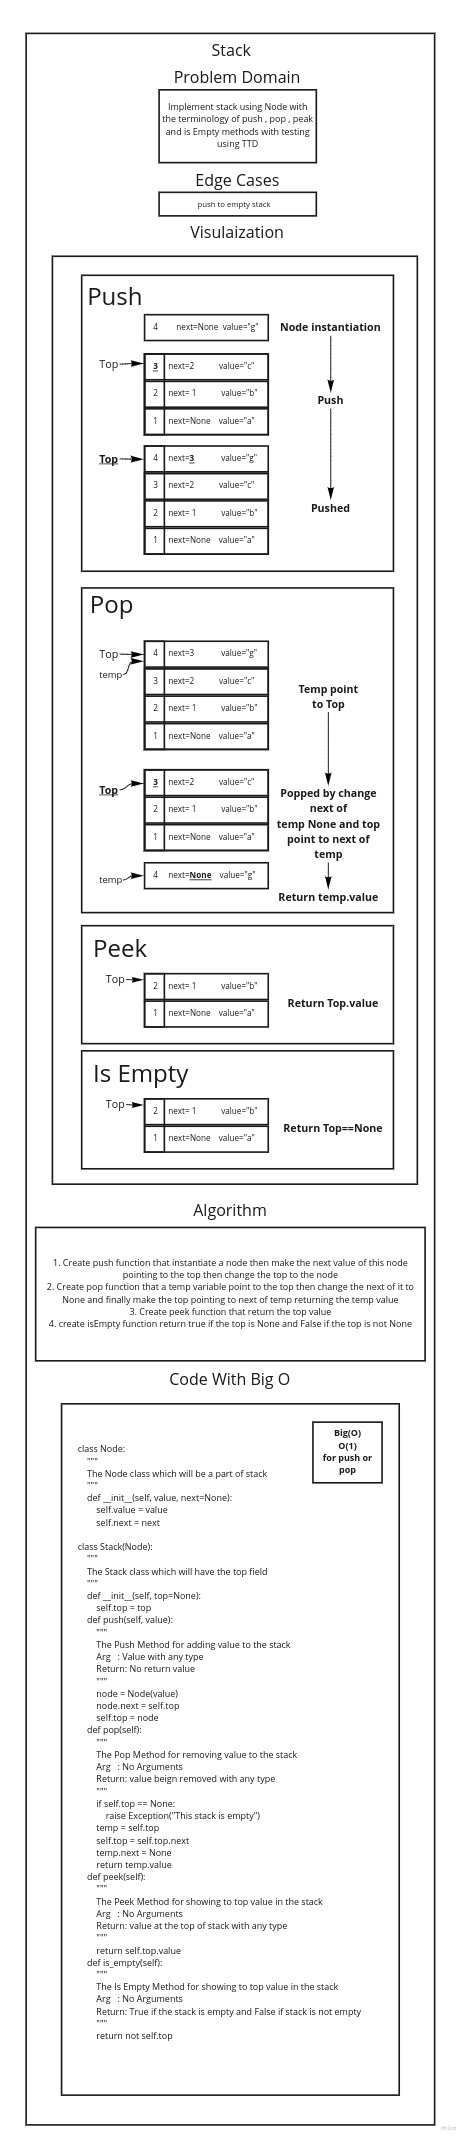
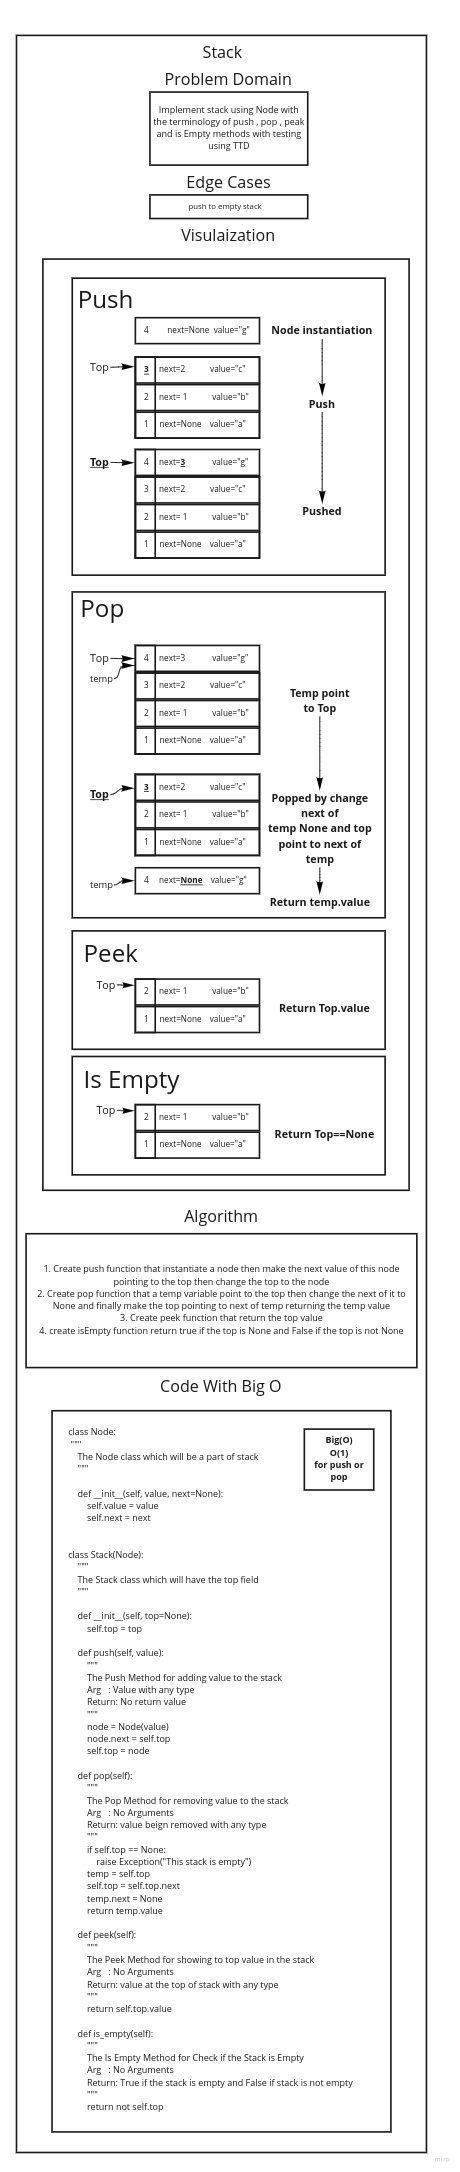
build : Queue Implementation done with tests

Changed region(s): [[0.0304, 0.0, 0.9435, 1.0], [0.213, 0.185, 0.2435, 0.2158]]

diff --git a/python/stack_and_queue/stack_and_queue.py b/python/stack_and_queue/stack_and_queue.py
@@ -2,16 +2,20 @@ class Node:
     """
     The Node class which will be a part of stack
     """
+
     def __init__(self, value, next=None):
         self.value = value
         self.next = next
+
 
 class Stack(Node):
     """
     The Stack class which will have the top field
     """
+
     def __init__(self, top=None):
         self.top = top
+
     def push(self, value):
         """
         The Push Method for adding value to the stack
@@ -21,6 +25,7 @@ class Stack(Node):
         node = Node(value)
         node.next = self.top
         self.top = node
+
     def pop(self):
         """
         The Pop Method for removing value to the stack
@@ -33,6 +38,7 @@ class Stack(Node):
         self.top = self.top.next
         temp.next = None
         return temp.value
+
     def peek(self):
         """
         The Peek Method for showing to top value in the stack
@@ -40,10 +46,60 @@ class Stack(Node):
         Return: value at the top of stack with any type
         """
         return self.top.value
+
     def is_empty(self):
         """
-        The Is Empty Method for showing to top value in the stack
+        The Is Empty Method for Check if the Stack is Empty
         Arg   : No Arguments
         Return: True if the stack is empty and False if stack is not empty
         """
         return not self.top
+
+
+class Queue(Node):
+    def __init__(self):
+        self.front = None
+        self.rear = None
+
+    def enqueue(self, value):
+        """
+        The Enqueue Method for adding value to the rear of Queue
+        Arg   : Value with any type
+        Return: No return value
+        """
+        node = Node(value)
+        if not self.rear:
+            self.front = node
+            self.rear = node
+        else:
+            self.rear.next = node
+            self.rear = node
+
+    def dequeue(self):
+        """
+        The Pop Method for removing value from front of the Queue
+        Arg   : No Arguments
+        Return: value beign removed with any type
+        """
+        if self.front == None:
+            raise Exception("This stack is empty")
+        temp = self.front
+        self.front = self.front.next
+        temp.next = None
+        return temp.value
+
+    def peek(self):
+        """
+        The Peek Method for showing to front value in the Queue
+        Arg   : No Arguments
+        Return: value at the front of Queue with any type
+        """
+        return self.front.value
+
+    def is_empty(self):
+        """
+        The Is Empty Method for Check if the Queue is Empty
+        Arg   : No Arguments
+        Return: True if the Queue is empty and False if Queue is not empty
+        """
+        return not self.front

diff --git a/python/tests/test_stack_and_queue.py b/python/tests/test_stack_and_queue.py
@@ -1,6 +1,8 @@
 import pytest
-from stack_and_queue.stack_and_queue import Stack
+
 from stack_and_queue.stack_and_queue import Node
+from stack_and_queue.stack_and_queue import Stack
+from stack_and_queue.stack_and_queue import Queue
 import sys
 sys.path.append(
     '/media/jehadabuawwad/EA20F40B20F3DC8F/data-structures-and-algorithms/python')
@@ -16,6 +18,8 @@ def test_stack_pop(stack):
     actual = stack.pop()
     excepted = 'g'
     assert actual == excepted
+
+
 def test_stack_multiple_pop():
     node = Stack()
     node.push('a')
@@ -30,24 +34,80 @@ def test_stack_multiple_pop():
     excepted = None
     assert actual == excepted
 
+
 def test_stack_peek(stack):
     actual = stack.top.value
     expected = 'g'
     assert actual == expected
+
 
 def test_stack_peek_next(stack):
     actual = stack.top.next.value
     expected = 'c'
     assert actual == expected
 
+
 def test_stack_instantiate_empty():
-    node=Stack()
+    node = Stack()
     actual = node.top
     excepted = None
     assert actual == excepted
 
+
 def test_stack_is_empty(stack):
     actual = stack.is_empty()
+    excepted = False
+    assert actual == excepted
+
+
+def test_Queue_enqueue(enqueue):
+    actual = enqueue.rear.value
+    expected = 'g'
+    assert actual == expected
+
+
+def test_Queue_dequeue(enqueue):
+    actual = enqueue.dequeue()
+    excepted = 'a'
+    assert actual == excepted
+
+
+def test_Queue_multiple_dequeue():
+    node = Queue()
+    node.enqueue('a')
+    node.enqueue('b')
+    node.enqueue('c')
+    node.enqueue('g')
+    node.dequeue()
+    node.dequeue()
+    node.dequeue()
+    node.dequeue()
+    actual = node.front
+    excepted = None
+    assert actual == excepted
+
+
+def test_Queue_peek(enqueue):
+    actual = enqueue.front.value
+    expected = 'a'
+    assert actual == expected
+
+
+def test_Queue_peek_next(enqueue):
+    actual = enqueue.front.next.value
+    expected = 'b'
+    assert actual == expected
+
+
+def test_Queue_instantiate_empty():
+    node = Queue()
+    actual = node.front
+    excepted = None
+    assert actual == excepted
+
+
+def test_Queue_is_empty(enqueue):
+    actual = enqueue.is_empty()
     excepted = False
     assert actual == excepted
 
@@ -59,4 +119,14 @@ def stack():
     node.push('b')
     node.push('c')
     node.push('g')
+    return node
+
+
+@pytest.fixture
+def enqueue():
+    node = Queue()
+    node.enqueue('a')
+    node.enqueue('b')
+    node.enqueue('c')
+    node.enqueue('g')
     return node

diff --git a/python/stack_and_queue/README.md b/python/stack_and_queue/README.md
@@ -35,9 +35,32 @@ Implementation of Stacks and Queues
         - Arguments: none
         - Returns: Boolean indicating whether or not the stack is empty.
 
+### Queue
+
+* [x] Create a Queue class that has a front property. It creates an empty Queue when instantiated.
+    - [x] This object should be aware of a default empty value assigned to front when the queue is created.
+* [x] The class should contain the following methods:
+    - [x] enqueue
+        - Arguments: value
+        - adds a new node with that value to the back of the queue with an O(1) Time performance.
+
+    - [x]dequeue
+        - Arguments: none
+        - Returns: the value from node from the front of the queue
+        - Removes the node from the front of the queue
+        - Should raise exception when called on empty queue
+    - [x] peek
+        - Arguments: none
+        - Returns: Value of the node located at the front of the queue
+        - Should raise exception when called on empty stack
+    - [x] is empty
+        - Arguments: none
+        - Returns: Boolean indicating whether or not the queue is empty
+
 ## Test Requirements
 
-* Stack
+### Stack
+
     - [x] Can successfully push onto a stack
     - [x] Can successfully push multiple values onto a stack
     - [x] Can successfully pop off the stack
@@ -46,6 +69,17 @@ Implementation of Stacks and Queues
     - [x] Can successfully instantiate an empty stack
     - [x] Calling pop or peek on empty stack raises exception
 
+### Queue
+
+    - [x] Can successfully enqueue into a queue
+    - [x] Can successfully enqueue multiple values into a queue
+    - [x] Can successfully dequeue out of a queue the expected value
+    - [x] Can successfully peek into a queue, seeing the expected value
+    - [x] Can successfully empty a queue after multiple dequeues
+    - [x] Can successfully instantiate an empty queue
+    - [x] Calling dequeue or peek on empty queue raises exception
 # White Board
 
 ![Stacks](Stacks.jpg)
+
+![Queues](Queues.jpg)
